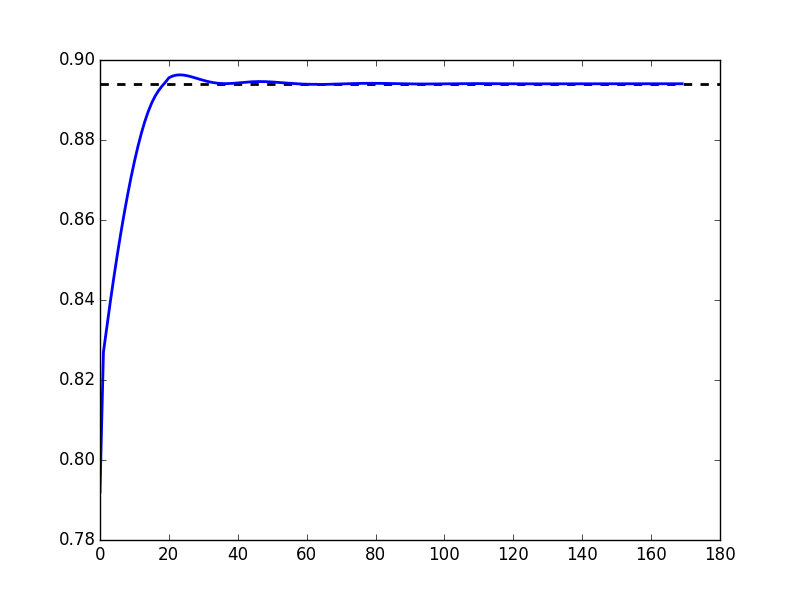
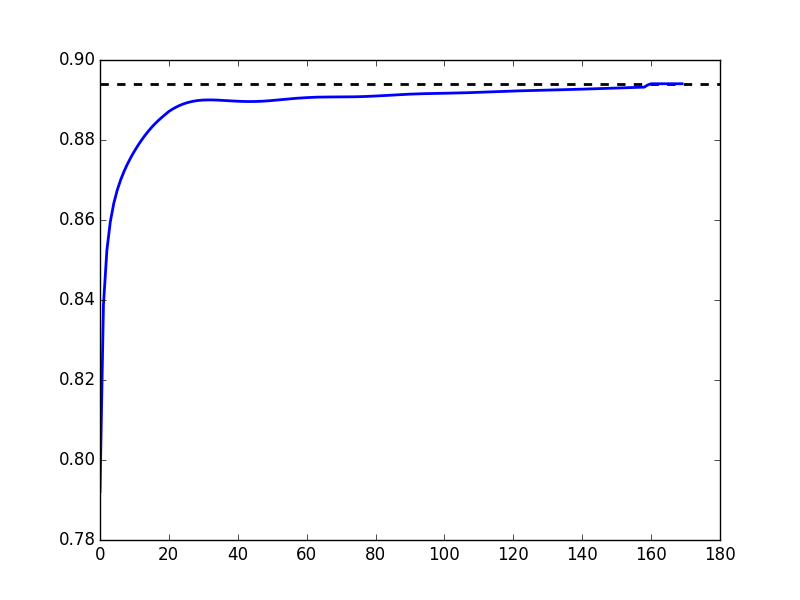
combined tax functions

Changed region(s): [[0.125, 0.12, 0.8125, 0.63]]

diff --git a/Python/TESTED/TPI.py b/Python/TESTED/TPI.py
@@ -312,7 +312,7 @@ w0 = get_w(Y0, L0)
 r0 = get_r(Y0, K0)
 BQ0 = (1+r0)*(initial_b * omega_stationary[0] * rho.reshape(S, 1)).sum(0)
 T_H_0 = tax.get_lump_sum(r0, b_sinit, w0, e, initial_n, BQ0, lambdas, factor_ss, omega_stationary[0], method='SS')
-tax0 = tax.total_taxes_SS(r0, b_sinit, w0, e, initial_n, BQ0, lambdas, factor_ss, T_H_0)
+tax0 = tax.total_taxes(r0, b_sinit, w0, e, initial_n, BQ0, lambdas, factor_ss, T_H_0, None, method='SS', shift=False)
 c0 = get_cons(r0, b_sinit, w0, e, initial_n, BQ0.reshape(1, J), lambdas.reshape(1, J), b_splus1init, g_y, tax0)
 constraint_checker_SS(initial_b[:-1], initial_n, c0)
 
@@ -324,6 +324,7 @@ Solve for equilibrium transition path by TPI
 
 
 def SS_TPI_firstdoughnutring(guesses, winit, rinit, BQinit, T_H_init):
+    # This function does not work.  The tax functions need to be changed.
     b2 = float(guesses[0])
     n1 = float(guesses[1])
     b1 = float(initial_b[-2, j])
@@ -380,8 +381,8 @@ def Steady_state_TPI_solver(guesses, winit, rinit, BQinit, T_H_init, t):
     T_H_s = T_H_init[t:t+length]
     T_H_splus1 = T_H_init[t+1:t+length+1]
     # Savings euler equations
-    tax_s = tax.total_taxes_TPI1(r_s, b_s, w_s, e_s, n_s, BQ_s, lambdas[j], factor_ss, T_H_s, j)
-    tax_splus1 = tax.total_taxes_TPI1_2(r_splus1, b_splus1, w_splus1, e_extended, n_extended, BQ_splus1, lambdas[j], factor_ss, T_H_splus1, j)
+    tax_s = tax.total_taxes(r_s, b_s, w_s, e_s, n_s, BQ_s, lambdas[j], factor_ss, T_H_s, j, method='TPI', shift=False)
+    tax_splus1 = tax.total_taxes(r_splus1, b_splus1, w_splus1, e_extended, n_extended, BQ_splus1, lambdas[j], factor_ss, T_H_splus1, j, method='TPI', shift=True)
     cons_s = get_cons(r_s, b_s, w_s, e_s, n_s, BQ_s, lambdas[j], b_splus1, g_y, tax_s)
     cons_splus1 = get_cons(r_splus1, b_splus1, w_splus1, e_extended, n_extended, BQ_splus1, lambdas[j], b_splus2, g_y, tax_splus1)
     income_splus1 = (r_splus1 * b_splus1 + w_splus1 * e_extended * n_extended) * factor_ss
@@ -538,12 +539,12 @@ b_s[:, 1:, :] = b_mat[:T, :-1, :]
 b_splus1 = np.zeros((T, S, J))
 b_splus1[:, :, :] = b_mat[:T, :, :]
 if TPI_initial_run:
-    taxinit = tax.total_taxes_path(rinit[:T], b_s, winit[:T], e.reshape(
-        1, S, J), n_mat[:T], BQinit[:T, :].reshape(T, 1, J), lambdas, factor_ss, T_H_init[:T])
+    taxinit = tax.total_taxes(rinit[:T].reshape(T, 1, 1), b_s, winit[:T].reshape(T, 1, 1), e.reshape(
+        1, S, J), n_mat[:T], BQinit[:T, :].reshape(T, 1, J), lambdas, factor_ss, T_H_init[:T].reshape(T, 1, 1))
     cinit = get_cons(rinit[:T].reshape(T, 1, 1), b_s, winit[:T].reshape(T, 1, 1), e.reshape(1, S, J), n_mat[:T], BQinit[:T].reshape(T, 1, J), lambdas.reshape(1, 1, J), b_splus1, g_y, taxinit)
 else:
-    taxinit2 = tax.total_taxes_path(rinit[:T], b_s, winit[:T], e.reshape(
-        1, S, J), n_mat[:T], BQinit[:T, :].reshape(T, 1, J), lambdas, factor_ss, T_H_init[:T])
+    taxinit2 = tax.total_taxes(rinit[:T].reshape(T, 1, 1), b_s, winit[:T].reshape(T, 1, 1), e.reshape(
+        1, S, J), n_mat[:T], BQinit[:T, :].reshape(T, 1, J), lambdas, factor_ss, T_H_init[:T].reshape(T, 1, 1))
     cinit = get_cons(rinit[:T].reshape(T, 1, 1), b_s, winit[:T].reshape(T, 1, 1), e.reshape(1, S, J), n_mat[:T], BQinit[:T].reshape(T, 1, J), lambdas.reshape(1, 1, J), b_splus1, g_y, taxinit2)
 print'Checking time path for violations of constaints.'
 for t in xrange(T):

diff --git a/Python/TESTED/tax_funcs.py b/Python/TESTED/tax_funcs.py
@@ -155,34 +155,6 @@ def tau_income_deriv(r, b, w, e, n, factor):
     return tau
 
 
-def total_taxes_SS(r, b, w, e, n, BQ, lambdas, factor, T_H):
-    '''
-    Gives the total amount of taxes in the steady state
-    '''
-    I = r * b + w * e * n
-    T_I = tau_income(r, b, w, e, n, factor) * I
-    T_P = tau_payroll * w * e * n
-    T_P[retire:] -= theta * w
-    T_BQ = tau_bq * BQ / lambdas
-    T_W = tau_wealth(b) * b
-    tot = T_I + T_P + T_BQ + T_W - T_H
-    return tot
-
-
-def total_taxes_SS2(r, b, w, e, n, BQ, lambdas, factor, T_H):
-    '''
-    Gives the total amount of taxes in the steady state
-    '''
-    I = r * b + w * e * n
-    T_I = tau_income(r, b, w, e, n, factor) * I
-    T_P = tau_payroll * w * e * n
-    T_P[retire-1:] -= theta * w
-    T_BQ = tau_bq * BQ / lambdas
-    T_W = tau_wealth(b) * b
-    tot = T_I + T_P + T_BQ + T_W - T_H
-    return tot
-
-
 def get_lump_sum(r, b, w, e, n, BQ, lambdas, factor, omega, method):
     I = r * b + w * e * n
     T_I = tau_income(r, b, w, e, n, factor) * I
@@ -199,36 +171,30 @@ def get_lump_sum(r, b, w, e, n, BQ, lambdas, factor, omega, method):
     return T_H
 
 
-
-
-def total_taxes_TPI1(r, b, w, e, n, BQ, lambdas, factor, T_H, j):
-    '''
-    Gives the total amount of taxes in TPI
-    '''
+def total_taxes(r, b, w, e, n, BQ, lambdas, factor, T_H, j, method, shift):
     I = r * b + w * e * n
     T_I = tau_income(r, b, w, e, n, factor) * I
     T_P = tau_payroll * w * e * n
-    retireTPI = (retire - S)
-    T_P[retireTPI:] -= theta[j] * w[retireTPI:]
-    T_BQ = tau_bq[j] * BQ / lambdas
+    if method == 'SS':
+        if shift is False:
+            T_P[retire:] -= theta * w
+        else:
+            T_P[retire-1:] -= theta * w
+        T_BQ = tau_bq * BQ / lambdas
+    elif method == 'TPI':
+        if shift is False:
+            retireTPI = (retire - S)
+        else:
+            retireTPI = (retire-1 - S)
+        if len(b.shape) != 3:
+            T_P[retireTPI:] -= theta[j] * w[retireTPI:]
+            T_BQ = tau_bq[j] * BQ / lambdas
+        else:
+            T_P[:, retire:, :] -= theta.reshape(1, 1, J) * w
+            T_BQ = tau_bq.reshape(1, 1, J) * BQ / lambdas
     T_W = tau_wealth(b) * b
-    tot = T_I + T_P + T_BQ + T_W - T_H
-    return tot
-
-
-def total_taxes_TPI1_2(r, b, w, e, n, BQ, lambdas, factor, T_H, j):
-    '''
-    Gives the total amount of taxes in TPI
-    '''
-    I = r * b + w * e * n
-    T_I = tau_income(r, b, w, e, n, factor) * I
-    T_P = tau_payroll * w * e * n
-    retireTPI = (retire-1 - S)
-    T_P[retireTPI:] -= theta[j] * w[retireTPI:]
-    T_BQ = tau_bq[j] * BQ / lambdas
-    T_W = tau_wealth(b) * b
-    tot = T_I + T_P + T_BQ + T_W - T_H
-    return tot
+    total_taxes = T_I + T_P + T_BQ + T_W - T_H
+    return total_taxes
 
 
 def total_taxes_path(r, b, w, e, n, BQ, lambdas, factor, T_H):

diff --git a/Python/TESTED/SS.py b/Python/TESTED/SS.py
@@ -302,8 +302,8 @@ def euler_savings_func(w, r, e, n_guess, b_s, b_splus1, b_splus2, BQ, factor, T_
     '''
     e_extended = np.array(list(e) + list(np.zeros(J).reshape(1, J)))
     n_extended = np.array(list(n_guess) + list(np.zeros(J).reshape(1, J)))
-    tax1 = tax.total_taxes_SS(r, b_s, w, e, n_guess, BQ, lambdas, factor, T_H)
-    tax2 = tax.total_taxes_SS2(r, b_splus1, w, e_extended[1:], n_extended[1:], BQ, lambdas, factor, T_H)
+    tax1 = tax.total_taxes(r, b_s, w, e, n_guess, BQ, lambdas, factor, T_H, None, method='SS', shift=False)
+    tax2 = tax.total_taxes(r, b_splus1, w, e_extended[1:], n_extended[1:], BQ, lambdas, factor, T_H, None, method='SS', shift=True)
     cons1 = get_cons(r, b_s, w, e, n_guess, BQ, lambdas, b_splus1, g_y, tax1)
     cons2 = get_cons(r, b_splus1, w, e_extended[1:], n_extended[1:], BQ, lambdas, b_splus2, g_y, tax2)
     income = (r * b_splus1 + w * e_extended[1:] * n_extended[1:]) * factor
@@ -332,7 +332,7 @@ def euler_labor_leisure_func(w, r, e, n_guess, b_s, b_splus1, BQ, factor, T_H, c
     Returns:
         Value of Euler error.
     '''
-    tax1 = tax.total_taxes_SS(r, b_s, w, e, n_guess, BQ, lambdas, factor, T_H)
+    tax1 = tax.total_taxes(r, b_s, w, e, n_guess, BQ, lambdas, factor, T_H, None, method='SS', shift=False)
     cons = get_cons(r, b_s, w, e, n_guess, BQ, lambdas, b_splus1, g_y, tax1)
     income = (r * b_s + w * e * n_guess) * factor
     deriv = 1 - tau_payroll - tax.tau_income(r, b_s, w, e, n_guess, factor) - tax.tau_income_deriv(
@@ -384,7 +384,7 @@ def Steady_State(guesses, params):
     error2[mask2] += 1e9
     if b_guess.sum() <= 0:
         error1 += 1e9
-    tax1 = tax.total_taxes_SS(r, b_s, w, e, n_guess, BQ, lambdas, factor, T_H)
+    tax1 = tax.total_taxes(r, b_s, w, e, n_guess, BQ, lambdas, factor, T_H, None, method='SS', shift=False)
     cons = get_cons(r, b_s, w, e, n_guess, BQ.reshape(1, J), lambdas, b_splus1, g_y, tax1)
     mask3 = cons < 0
     error2[mask3] += 1e9
@@ -680,7 +680,7 @@ if SS_stage != 'first_run_for_guesses' and SS_stage != 'loop_calibration':
     b_s = np.array(list(np.zeros(J).reshape((1, J))) + list(bssmat))
     factor_ss = solutions[-1]
     T_Hss = tax.get_lump_sum(rss, bssmat_s, wss, e, nssmat, BQss, lambdas, factor_ss, omega_SS, method='SS')
-    taxss = tax.total_taxes_SS(rss, bssmat_s, wss, e, nssmat, BQss, lambdas, factor_ss, T_Hss)
+    taxss = tax.total_taxes(rss, bssmat_s, wss, e, nssmat, BQss, lambdas, factor_ss, T_Hss, None, method='SS', shift=False)
     cssmat = get_cons(rss, bssmat_s, wss, e, nssmat, BQss.reshape(1, J), lambdas.reshape(1, J), bssmat_splus1, g_y, taxss)
 
     constraint_checker(bssmat, nssmat, cssmat)
